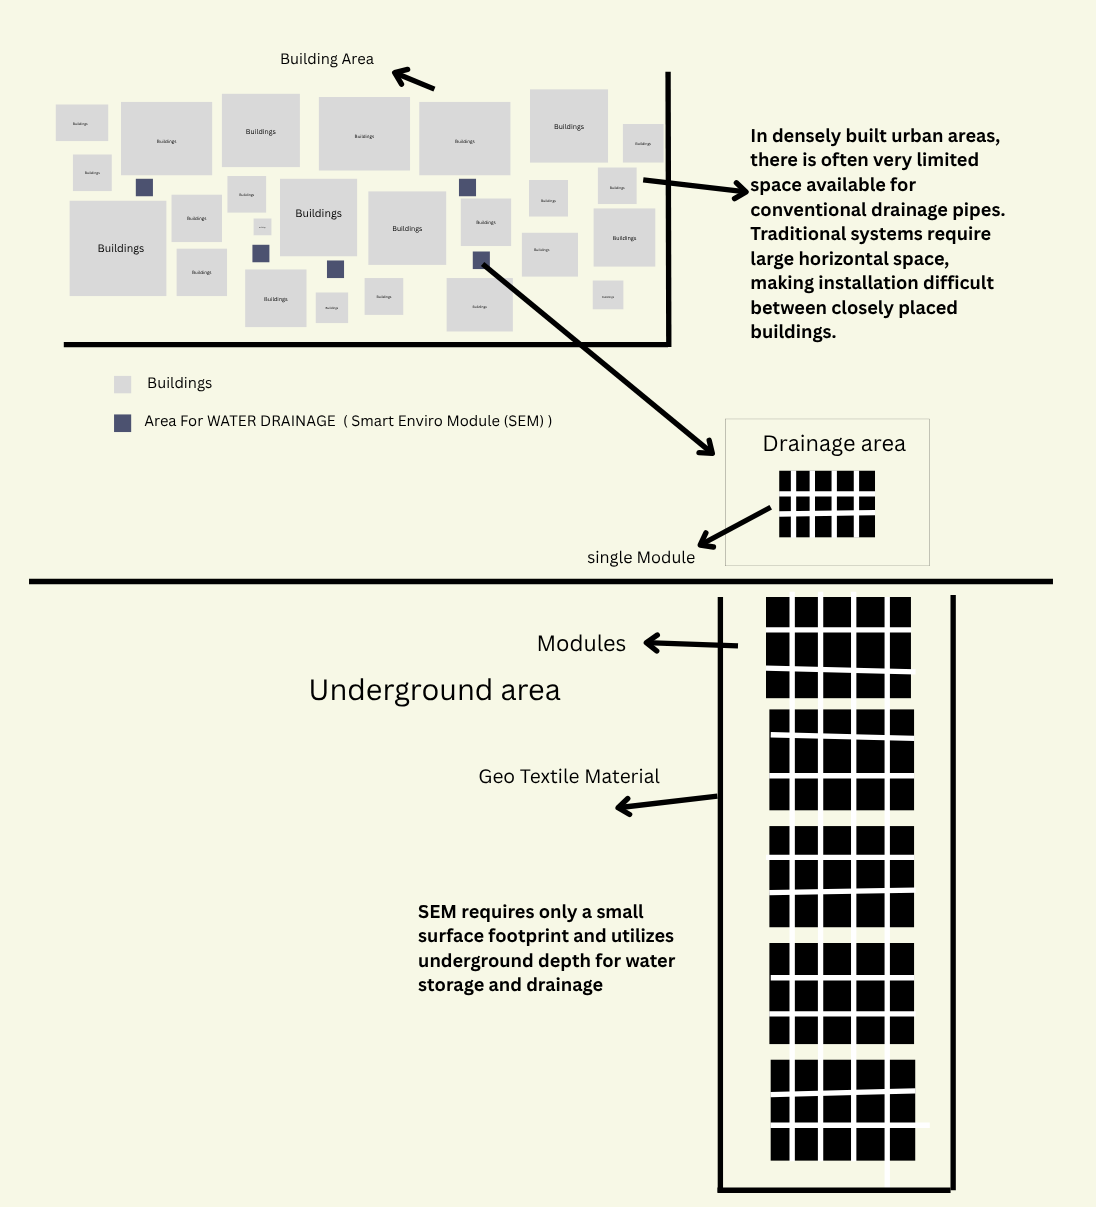
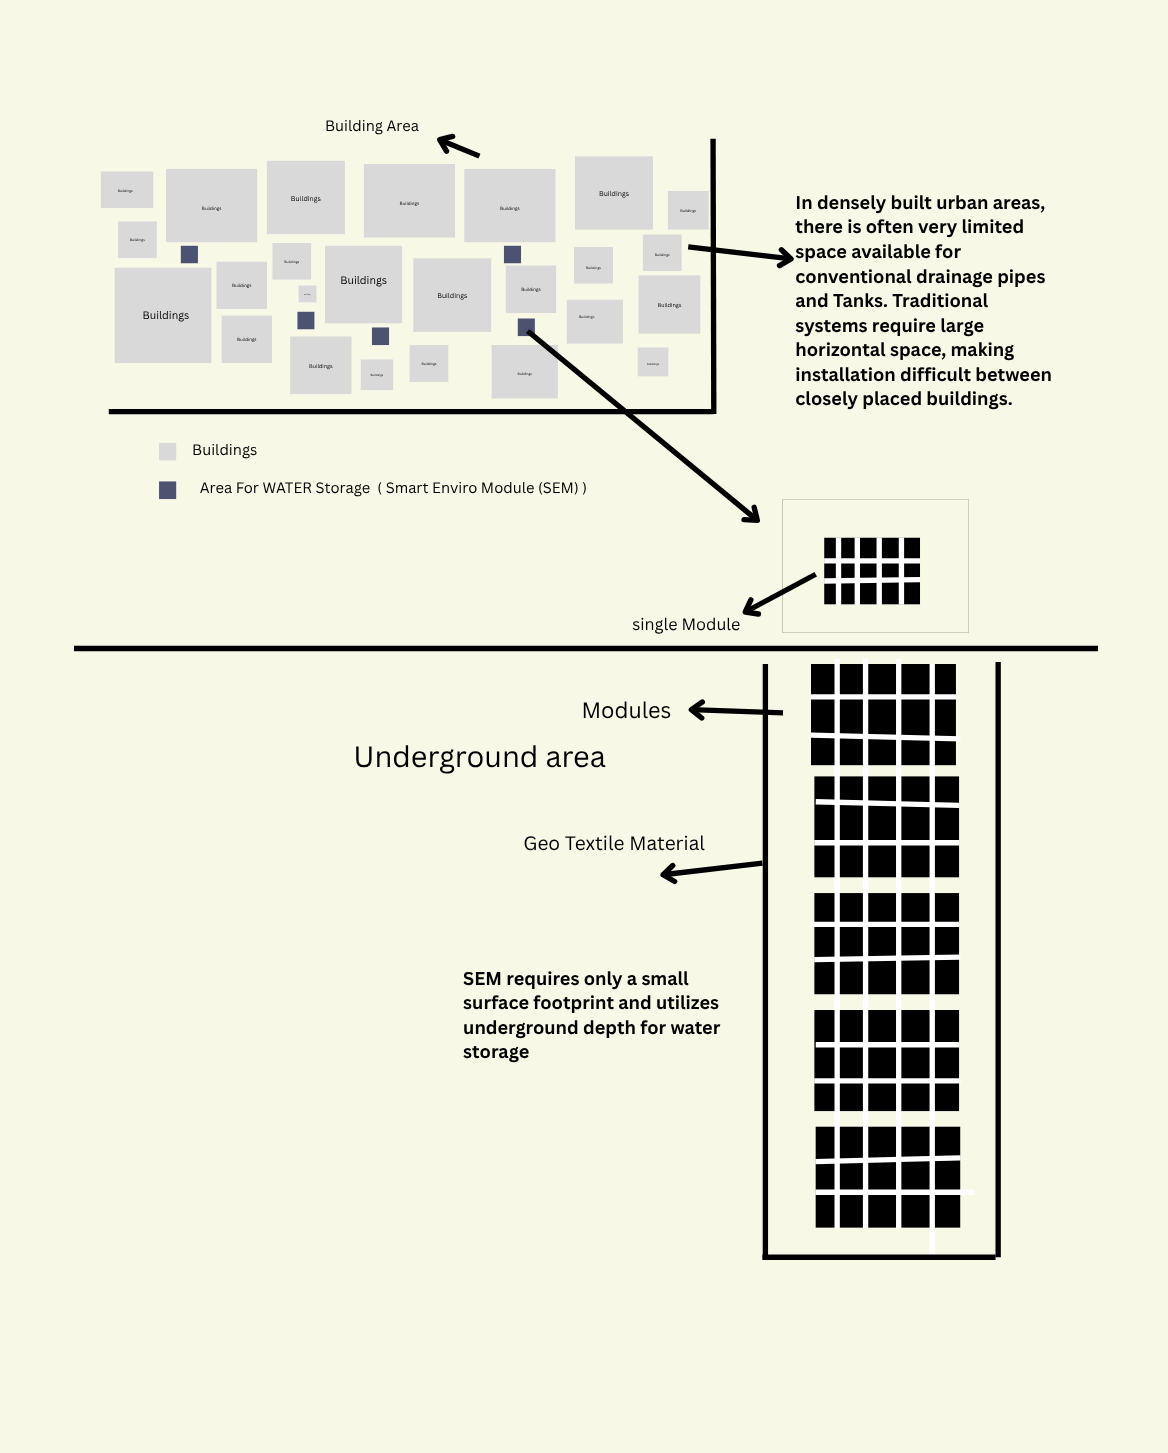
storage

Changed region(s): [[0.031, 0.0307, 0.9617, 1.0]]

diff --git a/Project.html b/Project.html
@@ -310,17 +310,19 @@
         alt=""
       />
       <p>
-        In densely built urban areas, there is often <b>very limited space
-        available </b>for conventional drainage pipes. Traditional systems require
-        large horizontal space, making installation difficult between closely
-        placed buildings. The <b>Smart Enviro Module (SEM)</b> provides an innovative
-        solution to this challenge. SEM requires only a <b>small surface footprint</b>
-        and <b>utilizes underground depth</b> for water storage and drainage. These
-        modular units are installed vertically, allowing for high-capacity
-        stormwater management even in <b>narrow construction zones</b>. By maximizing
-        vertical underground space, SEM effectively prevents <b>flooding, enhances
-        drainage performance, and supports sustainable urban development without
-        disturbing the limited surface area</b>.
+        In densely built urban areas, space is often too <b>limited</b> for installing
+        large conventional drainage pipes. Traditional systems require
+        significant horizontal space, which makes them unsuitable for narrow
+        construction zones between buildings. The <b>Smart Enviro Module (SEM)</b>
+        offers a revolutionary solution to this challenge. Instead of using
+        bulky drainage pipes, SEM modules provide <b>underground water storage
+        within a compact vertical design.</b> These modules require only a <b>small
+        surface footprint</b> but extend deep underground, efficiently managing
+        stormwater and storing it . By utilizing underground depth
+        instead of surface area, SEM ensures <b>effective water collection,
+        prevents flooding, and supports sustainable water reuse</b> — all while
+        fitting perfectly into tight construction spaces without disturbing the
+        surrounding structures.
       </p>
     </section>
 
